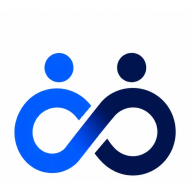
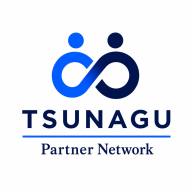
アイコンを元画像そのまま（クロップなし）にリサイズし直す
事前確認せずに画像をクロップ加工していたため、ユーザー提供の画像を
そのままリサイズするだけの形に修正。

diff --git a/SPEC.md b/SPEC.md
@@ -236,11 +236,11 @@
 
 ## favicon・ホーム画面アイコン（2026-07-27追加）
 
-- ユーザー提供のロゴ画像（TSUNAGUのアイコン＋wordmark）から、GD（`imagecopy`/`imagecopyresampled`）でアイコン部分（人物×2＋無限大マーク）だけを正方形にクロップし、5サイズ書き出し: `favicon-16x16.png`/`favicon-32x32.png`/`apple-touch-icon.png`（180×180）/`icon-192.png`/`icon-512.png`
+- ユーザー提供のロゴ画像（TSUNAGUのアイコン＋wordmark、正方形）を**そのまま**GD（`imagecopyresampled`）でリサイズしただけの5サイズを書き出し: `favicon-16x16.png`/`favicon-32x32.png`/`apple-touch-icon.png`（180×180）/`icon-192.png`/`icon-512.png`。当初アイコングラフィック部分だけクロップして使ったが、**ユーザーに確認せず画像を加工したことを指摘され、元画像をそのまま使う方針に修正した**。ユーザー提供のアセットは、変更した方が良さそうに見えても、まず確認してから加工すること
 - **配置は`public/`直下**（サブディレクトリではない）: 当初`public/icons/`配下に置いたところ、STG上で新規作成したサブディレクトリ配下のファイルだけがnginx側で404になる現象が発生（`favicon.ico`/`manifest.json`等の`public/`直下の既存ファイルは問題なし、既存の`data/zengin/branches/`のような以前からあるサブディレクトリのファイルも問題なし）。Xserver側の静的ファイル配信キャッシュが新規サブディレクトリの反映に時間がかかる/反映されない挙動と推測し、新規サブディレクトリを作らず`public/`直下に置く方式に変更して回避した。**今後`public/`に新しいサブディレクトリを追加する場合は、このnginxキャッシュ現象が再発する可能性があるため要注意**（直下に置くか、既存のサブディレクトリを使い回すのが安全）
 - `public/manifest.json`（PWA用ウェブマニフェスト、`icon-192`/`icon-512`参照、`theme_color`は`#2563eb`）
 - `resources/views/partials/favicon.blade.php`に全`<link>`タグ（favicon×2・apple-touch-icon・manifest・theme-colorメタ）をまとめ、`@include('partials.favicon')`を`layouts/admin.blade.php`/`layouts/agency.blade.php`/`layouts/public.blade.php`/`public/apply/show.blade.php`/`agency/line_connection/expired.blade.php`の5箇所（独自`<head>`を持つ全ビュー、PDFテンプレートと未使用の`welcome.blade.php`を除く）に追加
-- 元画像はwordmark（"TSUNAGU"/"Partner Network"の文字）込みの正方形だったため、小さいアイコンで文字が潰れないようアイコングラフィック部分だけを抽出している。今後ロゴ自体を差し替える場合も、同じ「アイコン部分だけ抽出→GDでリサイズ」の手順を踏むこと
+- 元画像はwordmark（"TSUNAGU"/"Partner Network"の文字）込みの正方形。小さいfaviconでは文字が潰れて見えるが、それでも元画像通りの表示が優先（上記の通りユーザー確認済みの方針）
 
 ## 開発環境の注意点
 
